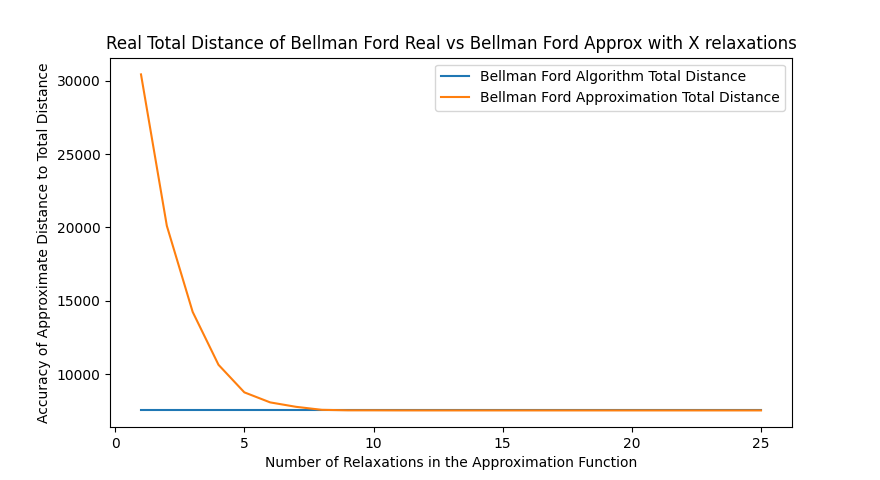
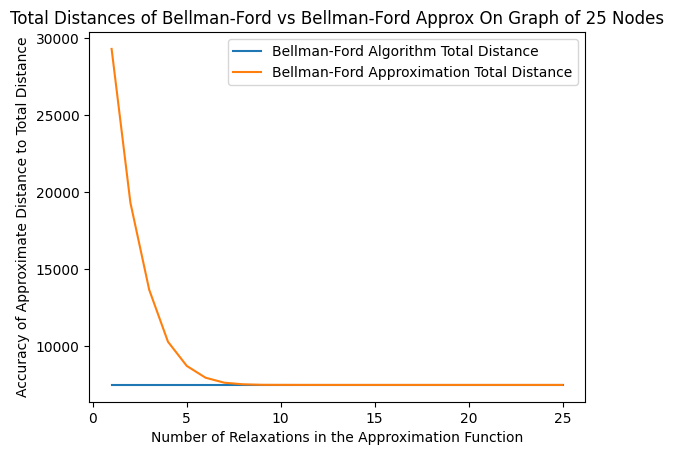
Automated the saving of Figures in Experiment 1

Changed region(s): [[0.0, 0.0, 0.997, 0.9846], [0.3427, 0.1538, 0.3739, 0.1846]]

diff --git a/code/part1/exp1.py b/code/part1/exp1.py
@@ -5,6 +5,12 @@ from plotting import PlotGroup
 import shortest_path_approx
 import matplotlib.pyplot as plot
 import source.final_project_part1 as fpp1
+import os
+
+saveFileDir = "./images/part1/"
+token = 0
+saveFigures = True
+showFigures = False
 
 #experiment ideas
 
@@ -15,6 +21,17 @@ import source.final_project_part1 as fpp1
     
     #5. see if less runtime if less relaxations?
 
+def finish_figure(saveLocation):
+
+    if saveFigures:
+        print("Saving Figure to " + saveLocation)
+        plot.savefig(saveFileDir + saveLocation, bbox_inches='tight')
+
+    if showFigures:
+        plot.show() 
+
+    #Reset
+    plot.close() 
 
 def create_random_complete_graph(n,lower,upper):
     G = fpp1.DirectedWeightedGraph()
@@ -35,14 +52,16 @@ def create_random_complete_graph(n,lower,upper):
 #   the accuracy of the total_dist as the number of k increases, from EVERY node?
 
 #On Dijkstas
-def test1_d(nodeCount, lowerWeight, upperWeight, relaxationRange):
-    return test1(nodeCount, lowerWeight, upperWeight, relaxationRange, dijkstra, dijkstra_approx, "Dijkstra")
+def test1_d(nodeCount, lowerWeight, upperWeight, relaxationRange, token):
+    return test1(nodeCount, lowerWeight, upperWeight, relaxationRange, dijkstra, dijkstra_approx, token, "Dijkstra")
 
-def test1_bf(nodeCount, lowerWeight, upperWeight, relaxationRange):
-    return test1(nodeCount, lowerWeight, upperWeight, relaxationRange, bellman_ford, bellman_ford_approx, "Bellman Ford")
+def test1_bf(nodeCount, lowerWeight, upperWeight, relaxationRange, token):
+    return test1(nodeCount, lowerWeight, upperWeight, relaxationRange, bellman_ford, bellman_ford_approx, token, "Bellman-Ford")
 
-def test1(nodeCount, lowerWeight, upperWeight, relaxationRange, realfunc, approxfunc, alg="Unknown"):
+def test1(nodeCount, lowerWeight, upperWeight, relaxationRange, realfunc, approxfunc, token, alg="Unknown"):
     
+    print(f'Starting Test 1{token}...')
+
     aplot = PlotGroup(f"{alg} Approximation Accuracy")
 
     realPlot = PlotGroup(f"{alg} Algorithm Total Distance")
@@ -72,16 +91,20 @@ def test1(nodeCount, lowerWeight, upperWeight, relaxationRange, realfunc, approx
         approxPlot.add_point(relaxAmount, approxDist);
 
     #Setup
-    plot.title(f"Accuracy of the Total Distance of {alg} Real vs {alg} Approx with x relaxations")
+    plot.title(f"Difference in Total Distance of {alg} vs {alg} Approx On Graph of {nodeCount} Nodes")
     plot.xlabel(f"Number of Relaxations in the Approximation Function")
     plot.ylabel("Accuracy of Approximate Distance to Total Distance")
     
     aplot.plot()
 
     plot.legend()
-    plot.show()
+    finish_figure(f'exp1_1{token}A.png')
+  
+    #
+    # Second Graph
+    #
 
-    plot.title(f"Real Total Distance of {alg} Real vs {alg} Approx with X relaxations")
+    plot.title(f"Total Distances of {alg} vs {alg} Approx On Graph of {nodeCount} Nodes")
     plot.xlabel(f"Number of Relaxations in the Approximation Function")
     plot.ylabel("Accuracy of Approximate Distance to Total Distance")
     
@@ -89,7 +112,7 @@ def test1(nodeCount, lowerWeight, upperWeight, relaxationRange, realfunc, approx
     approxPlot.plot()
 
     plot.legend()
-    plot.show()
+    finish_figure(f'exp1_1{token}B.png')
 
 
 # ===================================================================================
@@ -97,7 +120,9 @@ def test1(nodeCount, lowerWeight, upperWeight, relaxationRange, realfunc, approx
 
 #
 #As relaxations increase, how does the accuracy fair from some single starting node?
-def test4(nodeCount, lowerWeight, upperWeight, relaxationRange, startingNode, trials):
+def test4(nodeCount, lowerWeight, upperWeight, relaxationRange, startingNode, trials, token):
+
+    print(f'Starting Test 4{token}...')
 
     dplot = PlotGroup(f"Dijkstra Approximation Accuracy")
     bfplot = PlotGroup(f"Bellmand Ford Approximation Accuracy")
@@ -140,7 +165,8 @@ def test4(nodeCount, lowerWeight, upperWeight, relaxationRange, startingNode, tr
     plot.xlabel(f"Number of Relaxations in the Approximation Function")
     plot.ylabel("Accuracy of Approximate Distance to Total Distance")    
     plot.legend()
-    plot.show()
+
+    finish_figure(f'exp1_4{token}.png')
 
 
 #
@@ -151,7 +177,9 @@ def test4(nodeCount, lowerWeight, upperWeight, relaxationRange, startingNode, tr
 
 #NOTE: Many trials needed as graphs are random. However, we perform the same alg on the same graph for each trial,
 #so the averages are okay. We average to get a general trend as items can vary.
-def test5(nodeRange, upperWeight, constantRelaxations, startingNode, trials):
+def test5(nodeRange, upperWeight, constantRelaxations, startingNode, trials, token):
+
+    print(f'Starting Test 5{token}...')
 
     approxPlots = []
 
@@ -195,7 +223,8 @@ def test5(nodeRange, upperWeight, constantRelaxations, startingNode, trials):
     plot.xlabel(f"Number of Nodes in graph G")
     plot.ylabel("Total Distance of graph")    
     plot.legend()
-    plot.show()
+
+    finish_figure(f'exp1_5{token}.png')
 
     pass
 
@@ -207,26 +236,26 @@ if (__name__ == "__main__"):
 
     #Run Tests
 
+    token = 0
+
     #
     # Test 1
     #
-    
-    test1_d(50, 0, 100, range(50 + 1))
-    test1_bf(25, 0, 100, range(1, 25 + 1))
-    test1_bf(25, -100, 100, range(1, 25 + 1))
+    # test1_d(50, 0, 100, range(1, 50 + 1), 'a')
+    # test1_bf(25, 0, 100, range(1, 25 + 1), 'b')
+    # test1_bf(25, -100, 100, range(1, 25 + 1), 'c')
+    # test1_bf(25, -100, 100, range(1, 1000, 10), 'd')
 
-    test1_bf(25, -100, 100, range(1, 1000, 10))
     #
     # Test 4
     #
-
-    # test4(50, 0, 100, range(50), 0, 1)
-    # test4(50, 0, 100, range(50), 0, 1000)
+    test4(50, 0, 100, range(50), 0, 1, 'a')
+    test4(50, 0, 100, range(50), 0, 1000, 'b')
 
     #
     # Test 5
     #
-    # test5(range(10, 100, 10), 100, [1, 10, 20, 50, 100], 0, 1000)
+    test5(range(10, 100, 10), 100, [1, 10, 20, 50, 100], 0, 1000, 'a')
 
 
     #End
